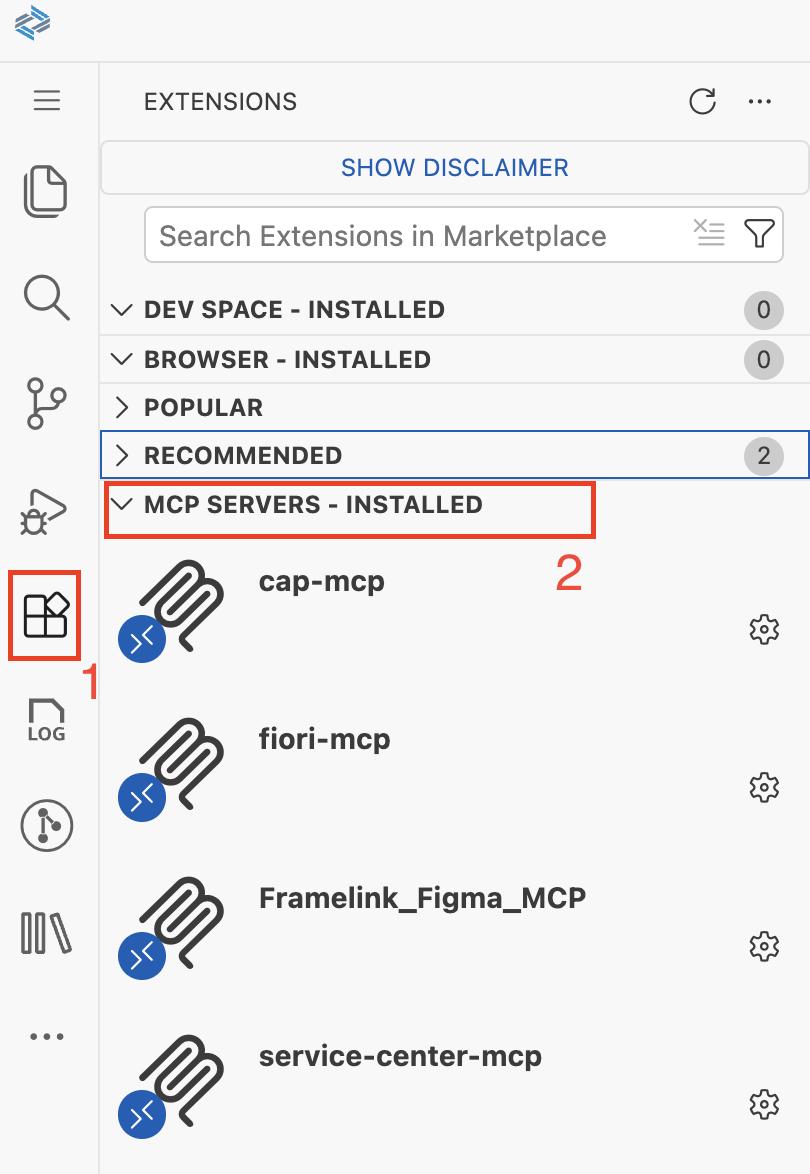
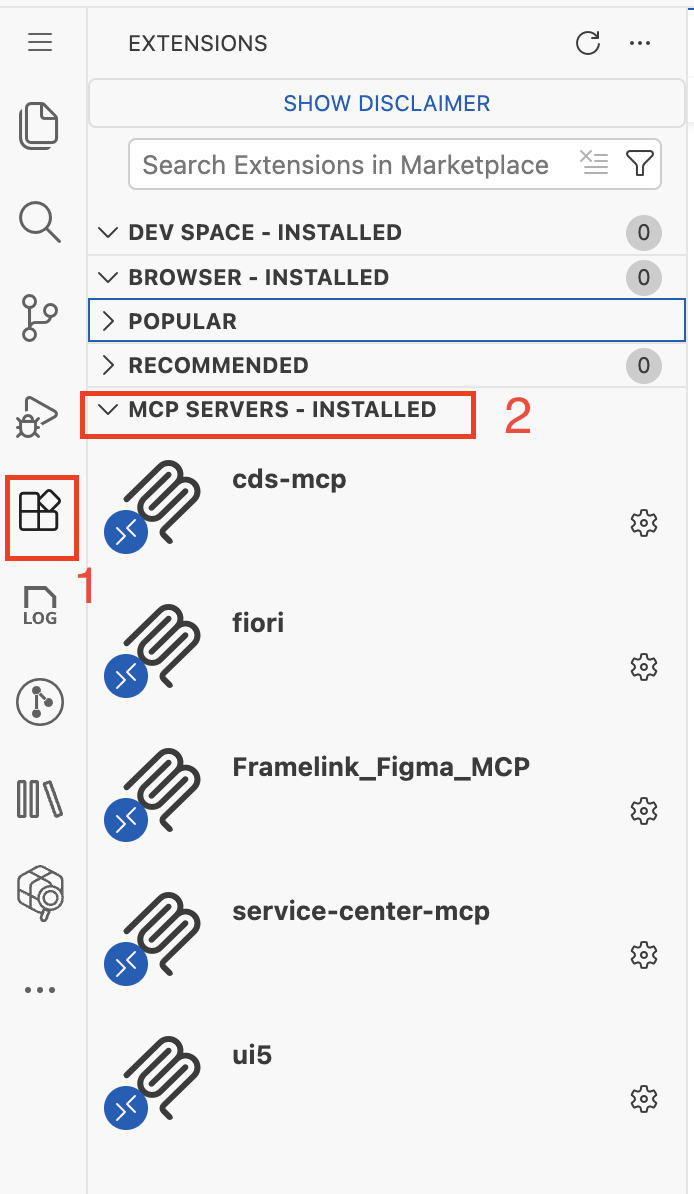
add implementation plan

diff --git a/exercises/ex1.6/README.md b/exercises/ex1.6/README.md
@@ -64,57 +64,31 @@ As a participant of the hands-on tutorial, you should already be setup with acce
      <img src="./images/ex0img29.png" alt="open file" width="60%"/>
 
 2. Copy file path `/home/user/.vscode/data/User/mcp.json` and click OK
+
     <img src="./images/ex0img30.png" alt="mcp json" width="80%"/>
 
-   - Replace with below content.
+   - Append with below content.
      ```json
-        {
-            "servers": {
-                "service-center-mcp": {
-                    "command": "service-center-mcp"
-                },
-                "fiori-mcp": {
-                    "timeout": 600,
-                    "type": "stdio",
-                    "command": "npx",
-                    "args": [
-                        "-y",
-                        "@sap-ux/fiori-mcp-server"
-                    ]
-                },
-                "cap-mcp": {
-                    "disabled": false,
-                    "timeout": 60,
-                    "type": "stdio",
-                    "command": "npx",
-                    "args": [
-                        "-y",
-                        "@cap-js/mcp-server"
-                    ],
-                    "env": {}
-                },
-                "Framelink_Figma_MCP": {
-                    "type": "stdio",
-                    "timeout": 60,
-                    "command": "npx",
-                    "args": [
-                        "-y",
-                        "figma-developer-mcp",
-                        "--figma-api-key=YOUR-KEY",
-                        "--stdio"
-                    ]
-                }
-            },
-            "inputs": []
+        "Framelink_Figma_MCP": {
+            "type": "stdio",
+            "timeout": 60,
+            "command": "npx",
+            "args": [
+                "-y",
+                "figma-developer-mcp",
+                "--figma-api-key=YOUR-KEY",
+                "--stdio"
+            ]
         }
      ```
-     - Insert the personal access token created in the previous exercise into the Framelink_Figma_MCP configuration by replacing YOUR-KEY in --figma-api-key=YOUR-KEY with your token.
+     <img src="./images/ex0img36.png" alt="mcp json" width="80%"/>
 
-     - close file `mcp.json`.
+4. Insert the personal access token created in the previous exercise into the Framelink_Figma_MCP configuration by replacing YOUR-KEY in --figma-api-key=YOUR-KEY with your token.
 
-5. Verify below mcp servers are installed.
+5. close file `mcp.json`.
+
+6. Verify below mcp servers are installed.
     <img src="./images/ex0img31.png" alt="mcp server installed" width="60%"/>
-
 
 ## Configure Github Copilot (AI Client)
 
@@ -122,15 +96,9 @@ As a participant of the hands-on tutorial, you should already be setup with acce
 
     ![copilot](./images/ex0img32.png)
 
-2. Before switching the LLM model, open Manage Model.
-    <img src="./images/ex0img34.png" alt="copilot" width="60%"/>
+2. Select model **Claude Sonnet 4.5**.
 
-3. Hide all other LLMs except Claude Sonnet 4.5.
-    <img src="./images/ex0img35.png" alt="copilot" width="80%"/>
-
-4. Select model **Claude Sonnet 4.5**.
-
-    ![copilot](./images/ex0img33.png)
+    ![copilot](./images/ex0img34.png)
 
 
 ## Summary

diff --git a/exercises/ex2.0/README.md b/exercises/ex2.0/README.md
@@ -10,7 +10,8 @@
     <insert_link_here> 
 
     Include technical key and business key for all entities.
-    Consult MCP servers and read all instructions.
+    Create a plan first, then proceed with implementation.
+    Consult MCP servers.
     ```
 
 3. In the web browser tab with your Figma Design, select **Screen 1 - List Report**, right-click on it, and select **Copy/Paste as** → **Copy link to selection**.
@@ -21,23 +22,25 @@
 
 5. Press `Enter` to execute the task.
 
-6. Copilot loads the instructions and skills, then uses the Figma MCP server to extract the design.
+6. Copilot uses the Figma MCP server to extract the design and prepares implementation plan.
 
     <img src="./images/implementation-plan.png" alt="copilot" width="80%"/>
 
-7. Copilot generates a task list and requests permission to execute terminal commands. Click **Allow** to proceed.
+7. When Copilot asks:
+- "Shall I proceed with this implementation plan?", confirm by responding with "Yes".
+- Click Allow when prompted to run Bash commands
 
     <img src="./images/implementation-plan2.png" alt="copilot" width="80%"/>
 
 > [!NOTE]
-> The execution generated by Copilot may differ from the example shown above. The above image is just for reference.
+> The implementation plan generated by Copilot may differ from the example shown above. The above image is just for reference.
 
-8. As Copilot creates new files and content, click **Keep** to accept the changes.
+8. Review the files and content created by Copilot, then click **Keep** to accept them.
 
     <img src="./images/file-changes.png" alt="copilot" width="80%"/>
 
 
-9. After completing all the todos, Copilot confirms the successful creation of the CAP project and Fiori app.
+9. After completing all the tasks, Copilot confirms the successful creation of the CAP project and Fiori app.
 
 10. Execute the prompt `/sap-fiori preview application`. The application should automatically open in your browser, displaying a travel list report application that matches the list report Figma Design.
 
